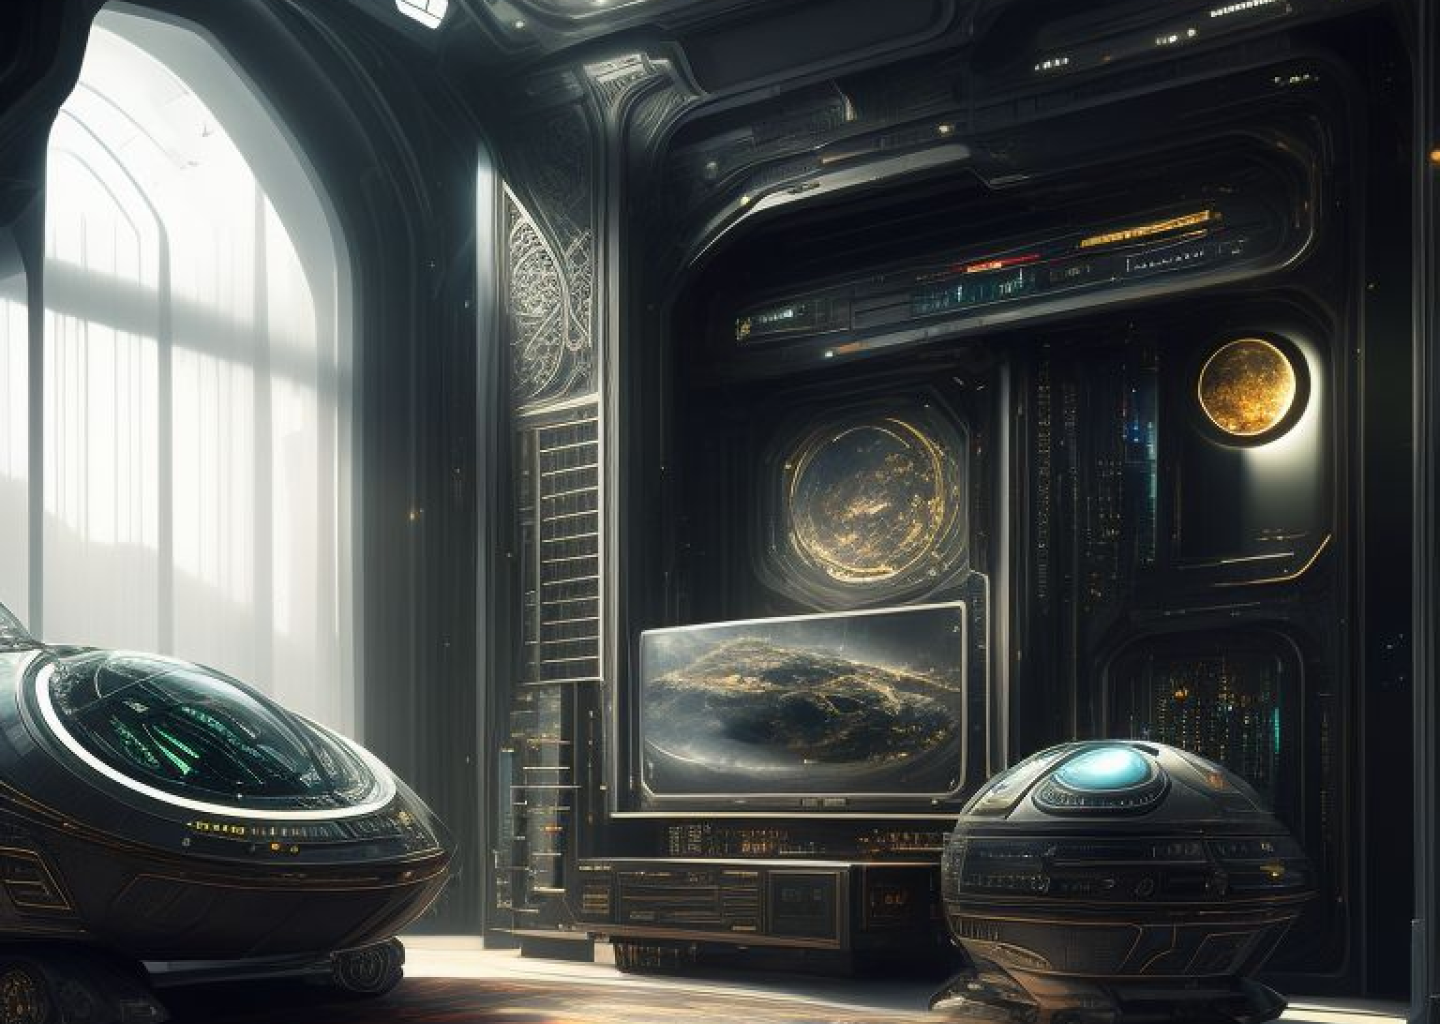
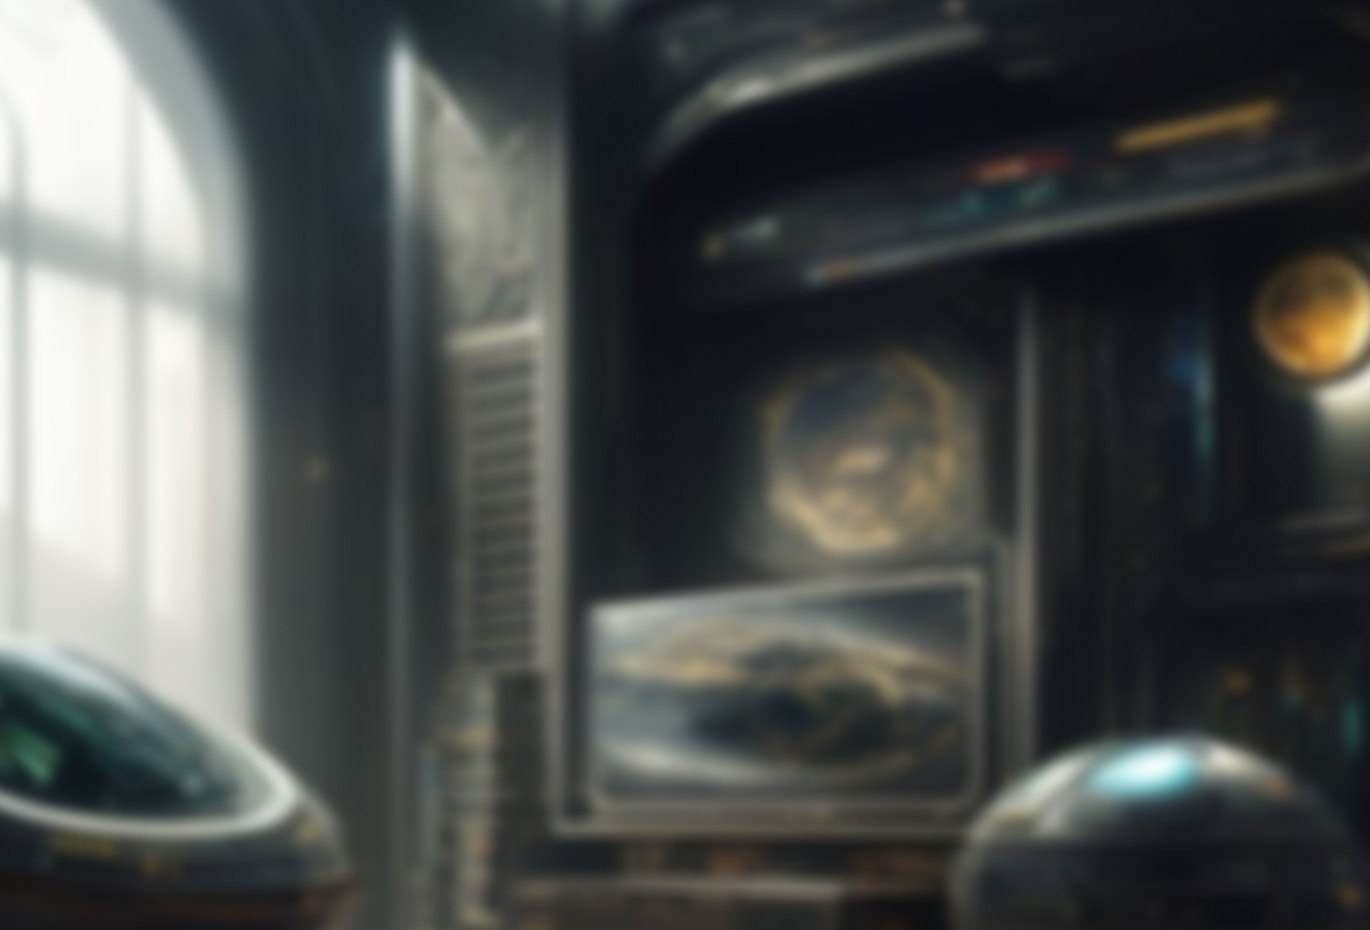
Add blur background

diff --git a/src/pages/final_result.css b/src/pages/final_result.css
@@ -9,11 +9,14 @@ main {
     justify-content: center;
     background-image: url(/src/assets/background2.png);
     background-size: cover;
+    transform: scale(1.1);
+    transform-origin: center;
     font-size: 1rem;
     min-height: 100vh;
 
 }
 #final_result {
+
     display: flex;
     flex-direction: column;
     align-items: center;

diff --git a/src/pages/Welcome.css b/src/pages/Welcome.css
@@ -1,8 +1,8 @@
 #welcome {
     position: absolute;
 
-    height: 100%;
-    width: 100%;
+    width: 100vw;
+    height: 100vh;
     
     display: flex;
     flex-direction: column;
